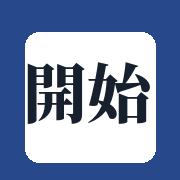
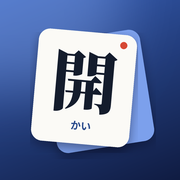
Nouvelle icône d'app (cartes empilées avec 開)
Passe le cache du service worker en kaishi-v2 pour que l'iPhone
récupère les nouvelles icônes.

Claude-Session: https://claude.ai/code/session_01Y6acSWZDtX7QYm9JT14Tsu

diff --git a/sw.js b/sw.js
@@ -1,5 +1,5 @@
 // Garde l'app disponible hors connexion. Change VERSION après chaque mise à jour des fichiers.
-const VERSION = "kaishi-v1";
+const VERSION = "kaishi-v2";
 const FILES = ["./", "./index.html", "./manifest.webmanifest", "./apple-touch-icon.png", "./icon-192.png", "./icon-512.png"];
 
 self.addEventListener("install", e => {
